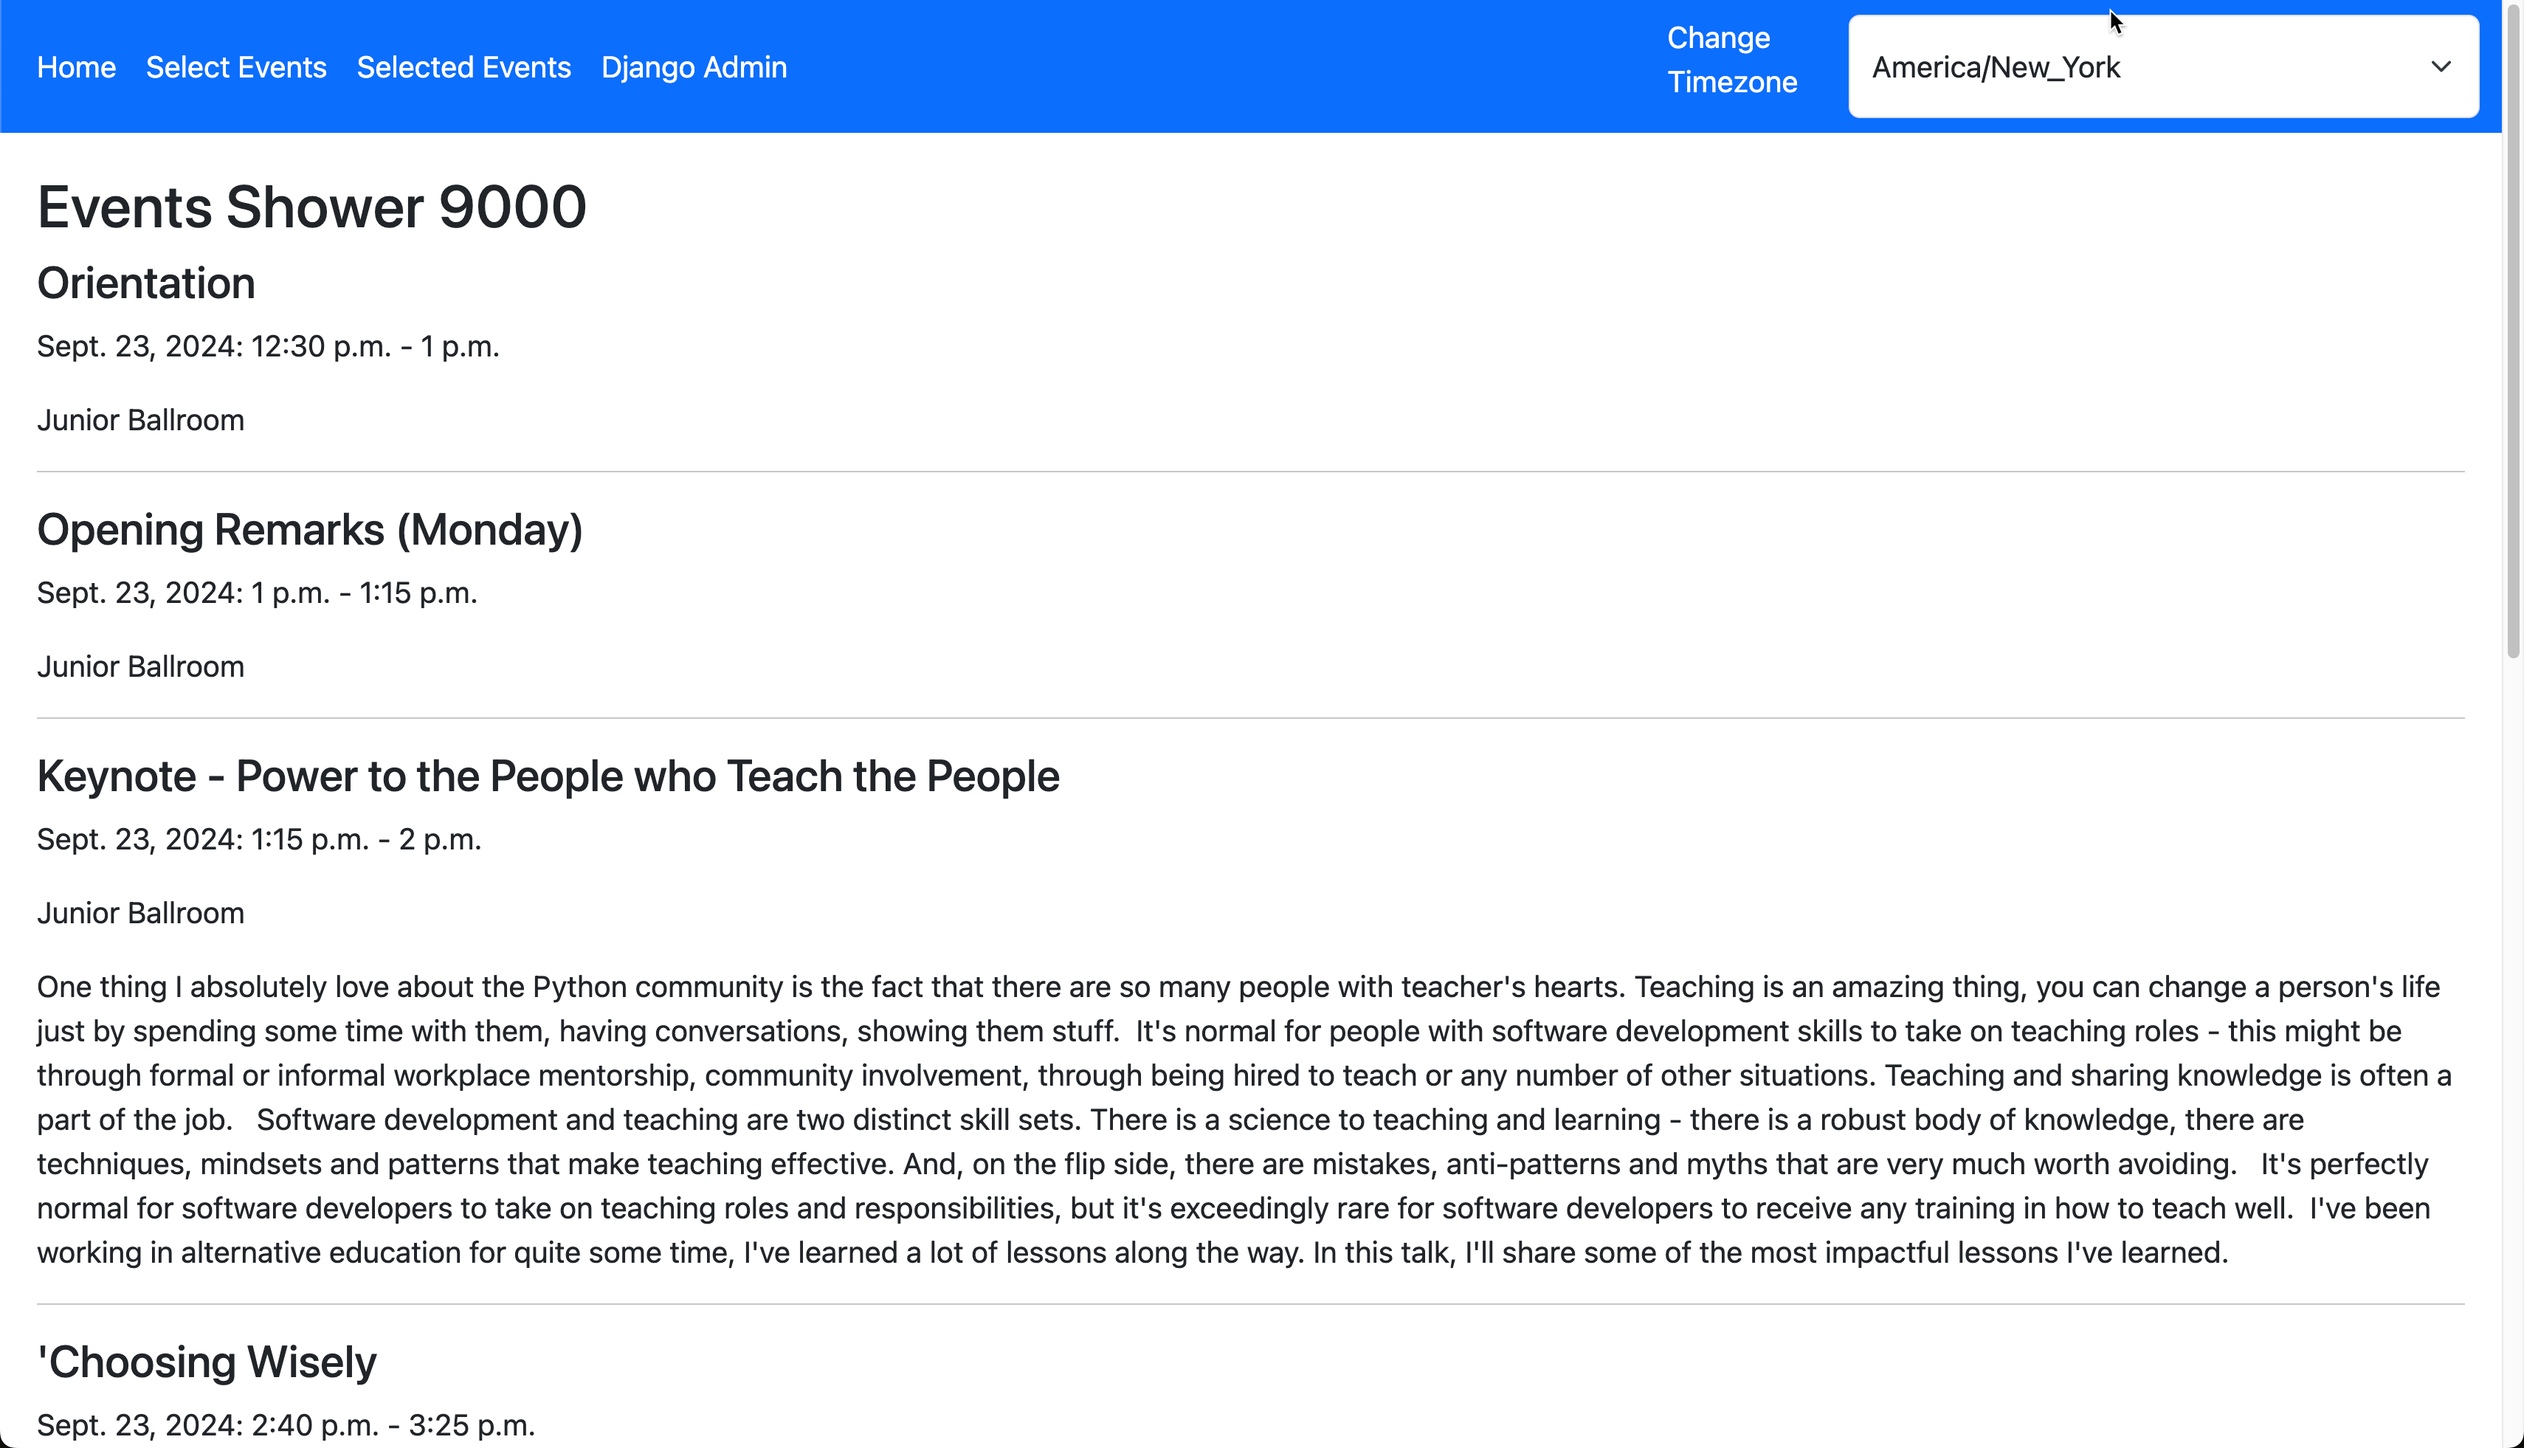
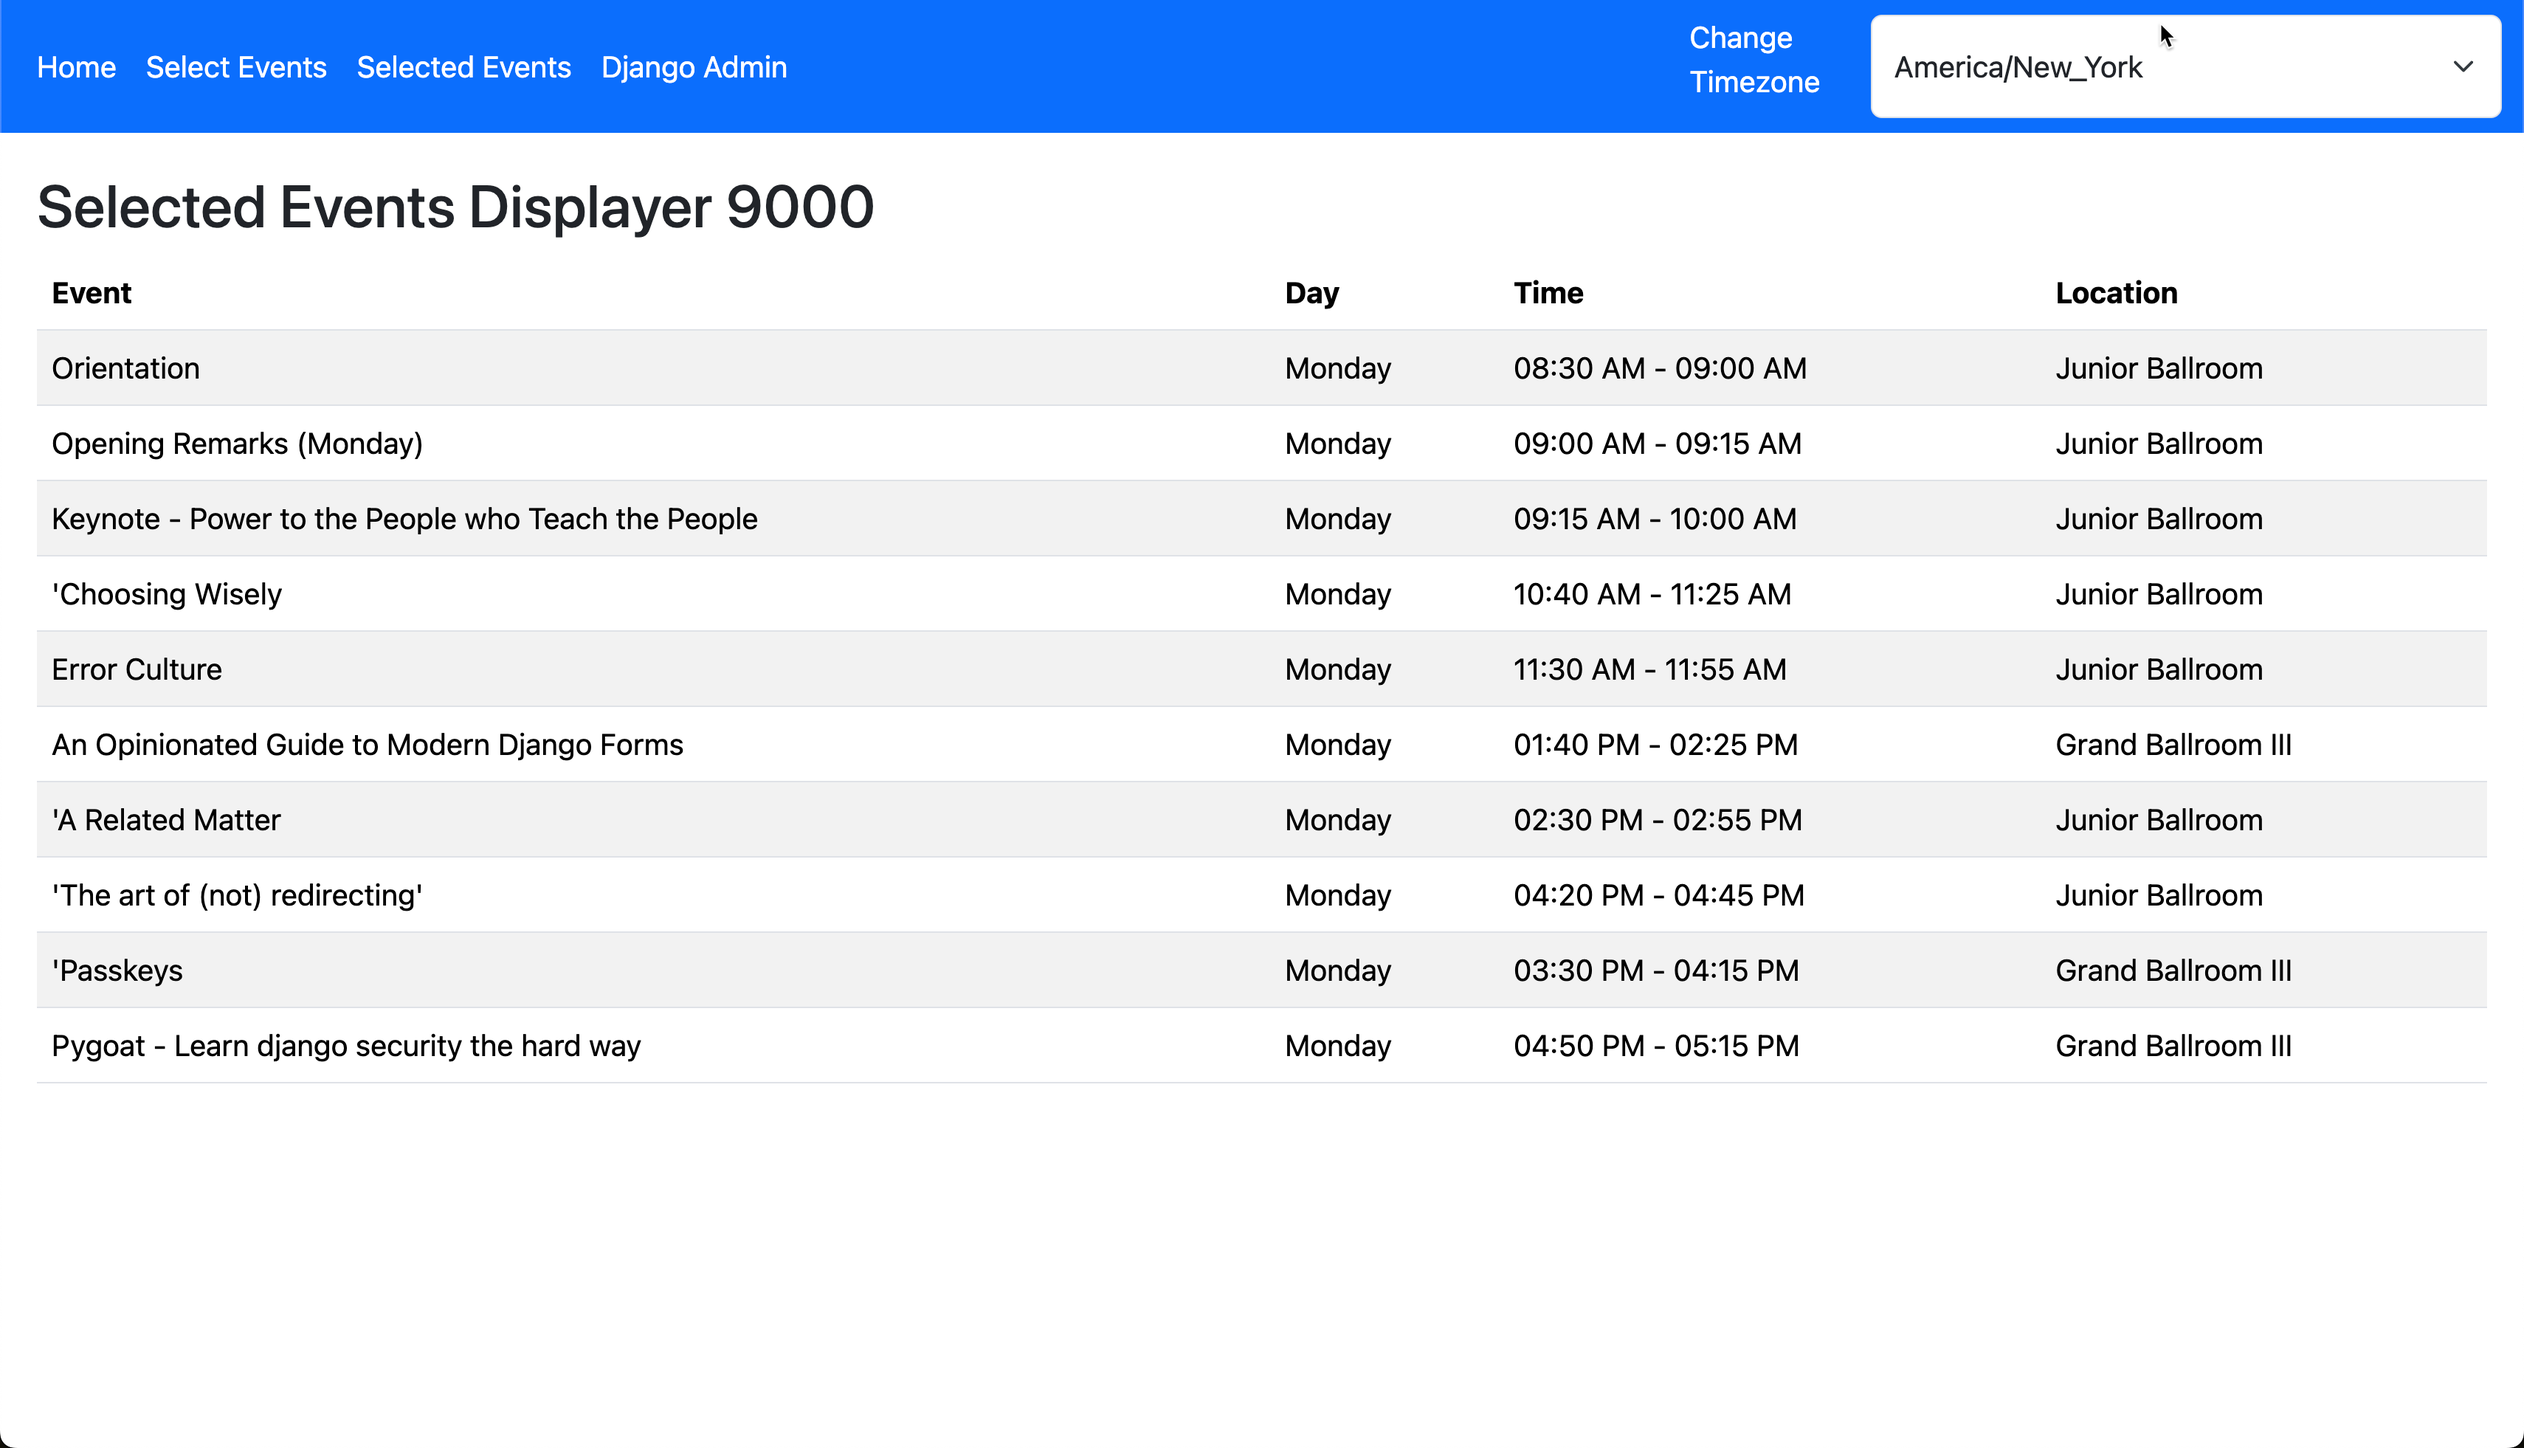
fix: Local time in selected events.

diff --git a/templates/selected_events.html b/templates/selected_events.html
@@ -2,17 +2,26 @@
 
 {% block content %}
     <main>
-        <h2>Events Shower 9000</h2>
-        {% for event in all_selected_events %}
-            <h4>{{ event.event.title }}</h4>
-            <p>
-                {{ event.event.start_time.date }}:
-                {{ event.event.start_time.time }} - {{ event.event.end_time.time }}
-            </p>
-            <p>{{ event.event.location }}</p>
-{#            <p>{{ event.event.presenter_names }}</p>#}
-            <p>{{ event.event.description }}</p>
-            <hr>
-        {% endfor %}
+        <h2>Selected Events Displayer 9000</h2>
+        <table class="table table-striped">
+            <thead>
+            <tr>
+                <th>Event</th>
+                <th>Day</th>
+                <th>Time</th>
+                <th>Location</th>
+            </tr>
+            </thead>
+            <tbody>
+            {% for event in all_selected_events %}
+                <tr>
+                    <td>{{ event.title }}</td>
+                    <td>{{ event.day }}</td>
+                    <td>{{ event.start_time }} - {{ event.end_time }}</td>
+                    <td>{{ event.location }}</td>
+                </tr>
+            {% endfor %}
+            </tbody>
+        </table>
     </main>
 {% endblock content %}

diff --git a/templates/select_events.html b/templates/select_events.html
@@ -2,7 +2,7 @@
 
 {% block content %}
     <main>
-        <h2>Events Added 9000</h2>
+        <h2>Events Selector 9000</h2>
         {% include 'all_tables.html' %}
     </main>
 {% endblock content %}

diff --git a/main/views.py b/main/views.py
@@ -71,7 +71,21 @@ def get_context(request: WSGIRequest):
         except IndexError:
             print("Error: Day not found.")
 
-    all_selected_events = SelectEvent.objects.filter(user=request.user, selected=True)
+    all_selected_events_raw = SelectEvent.objects.filter(user=request.user, selected=True)
+
+    all_selected_events = []
+    for event in all_selected_events_raw:
+        e = event.event
+        event_info = {
+            "id": e.id,
+            "title": e.title,
+            "description": e.description,
+            "day": e.start_time.strftime("%A"),
+            "start_time": localtime(e.start_time).strftime("%I:%M %p"),
+            "end_time": localtime(e.end_time).strftime("%I:%M %p"),
+            "location": e.location,
+        }
+        all_selected_events.append(event_info)
 
     context = {
         "all_events": all_events,
@@ -87,7 +101,7 @@ def get_context(request: WSGIRequest):
 @login_required(login_url='/admin/login/?next=/get_data')
 def get_data(request: WSGIRequest) -> render:
     """
-    Gets the latest data from the website and saves the results.
+    Gets the latest data from talks folder saves the results.
     If successful, also parses the data and fills the database.
     """
     errors = None
@@ -111,7 +125,7 @@ def get_data(request: WSGIRequest) -> render:
 
 def parse_data(request: WSGIRequest) -> Optional[list[str]]:
     """
-    Parses the latest schedule data for all files in the results directory.
+    Parses the latest schedule data for all files in the talks directory.
     """
     errors = []
 
